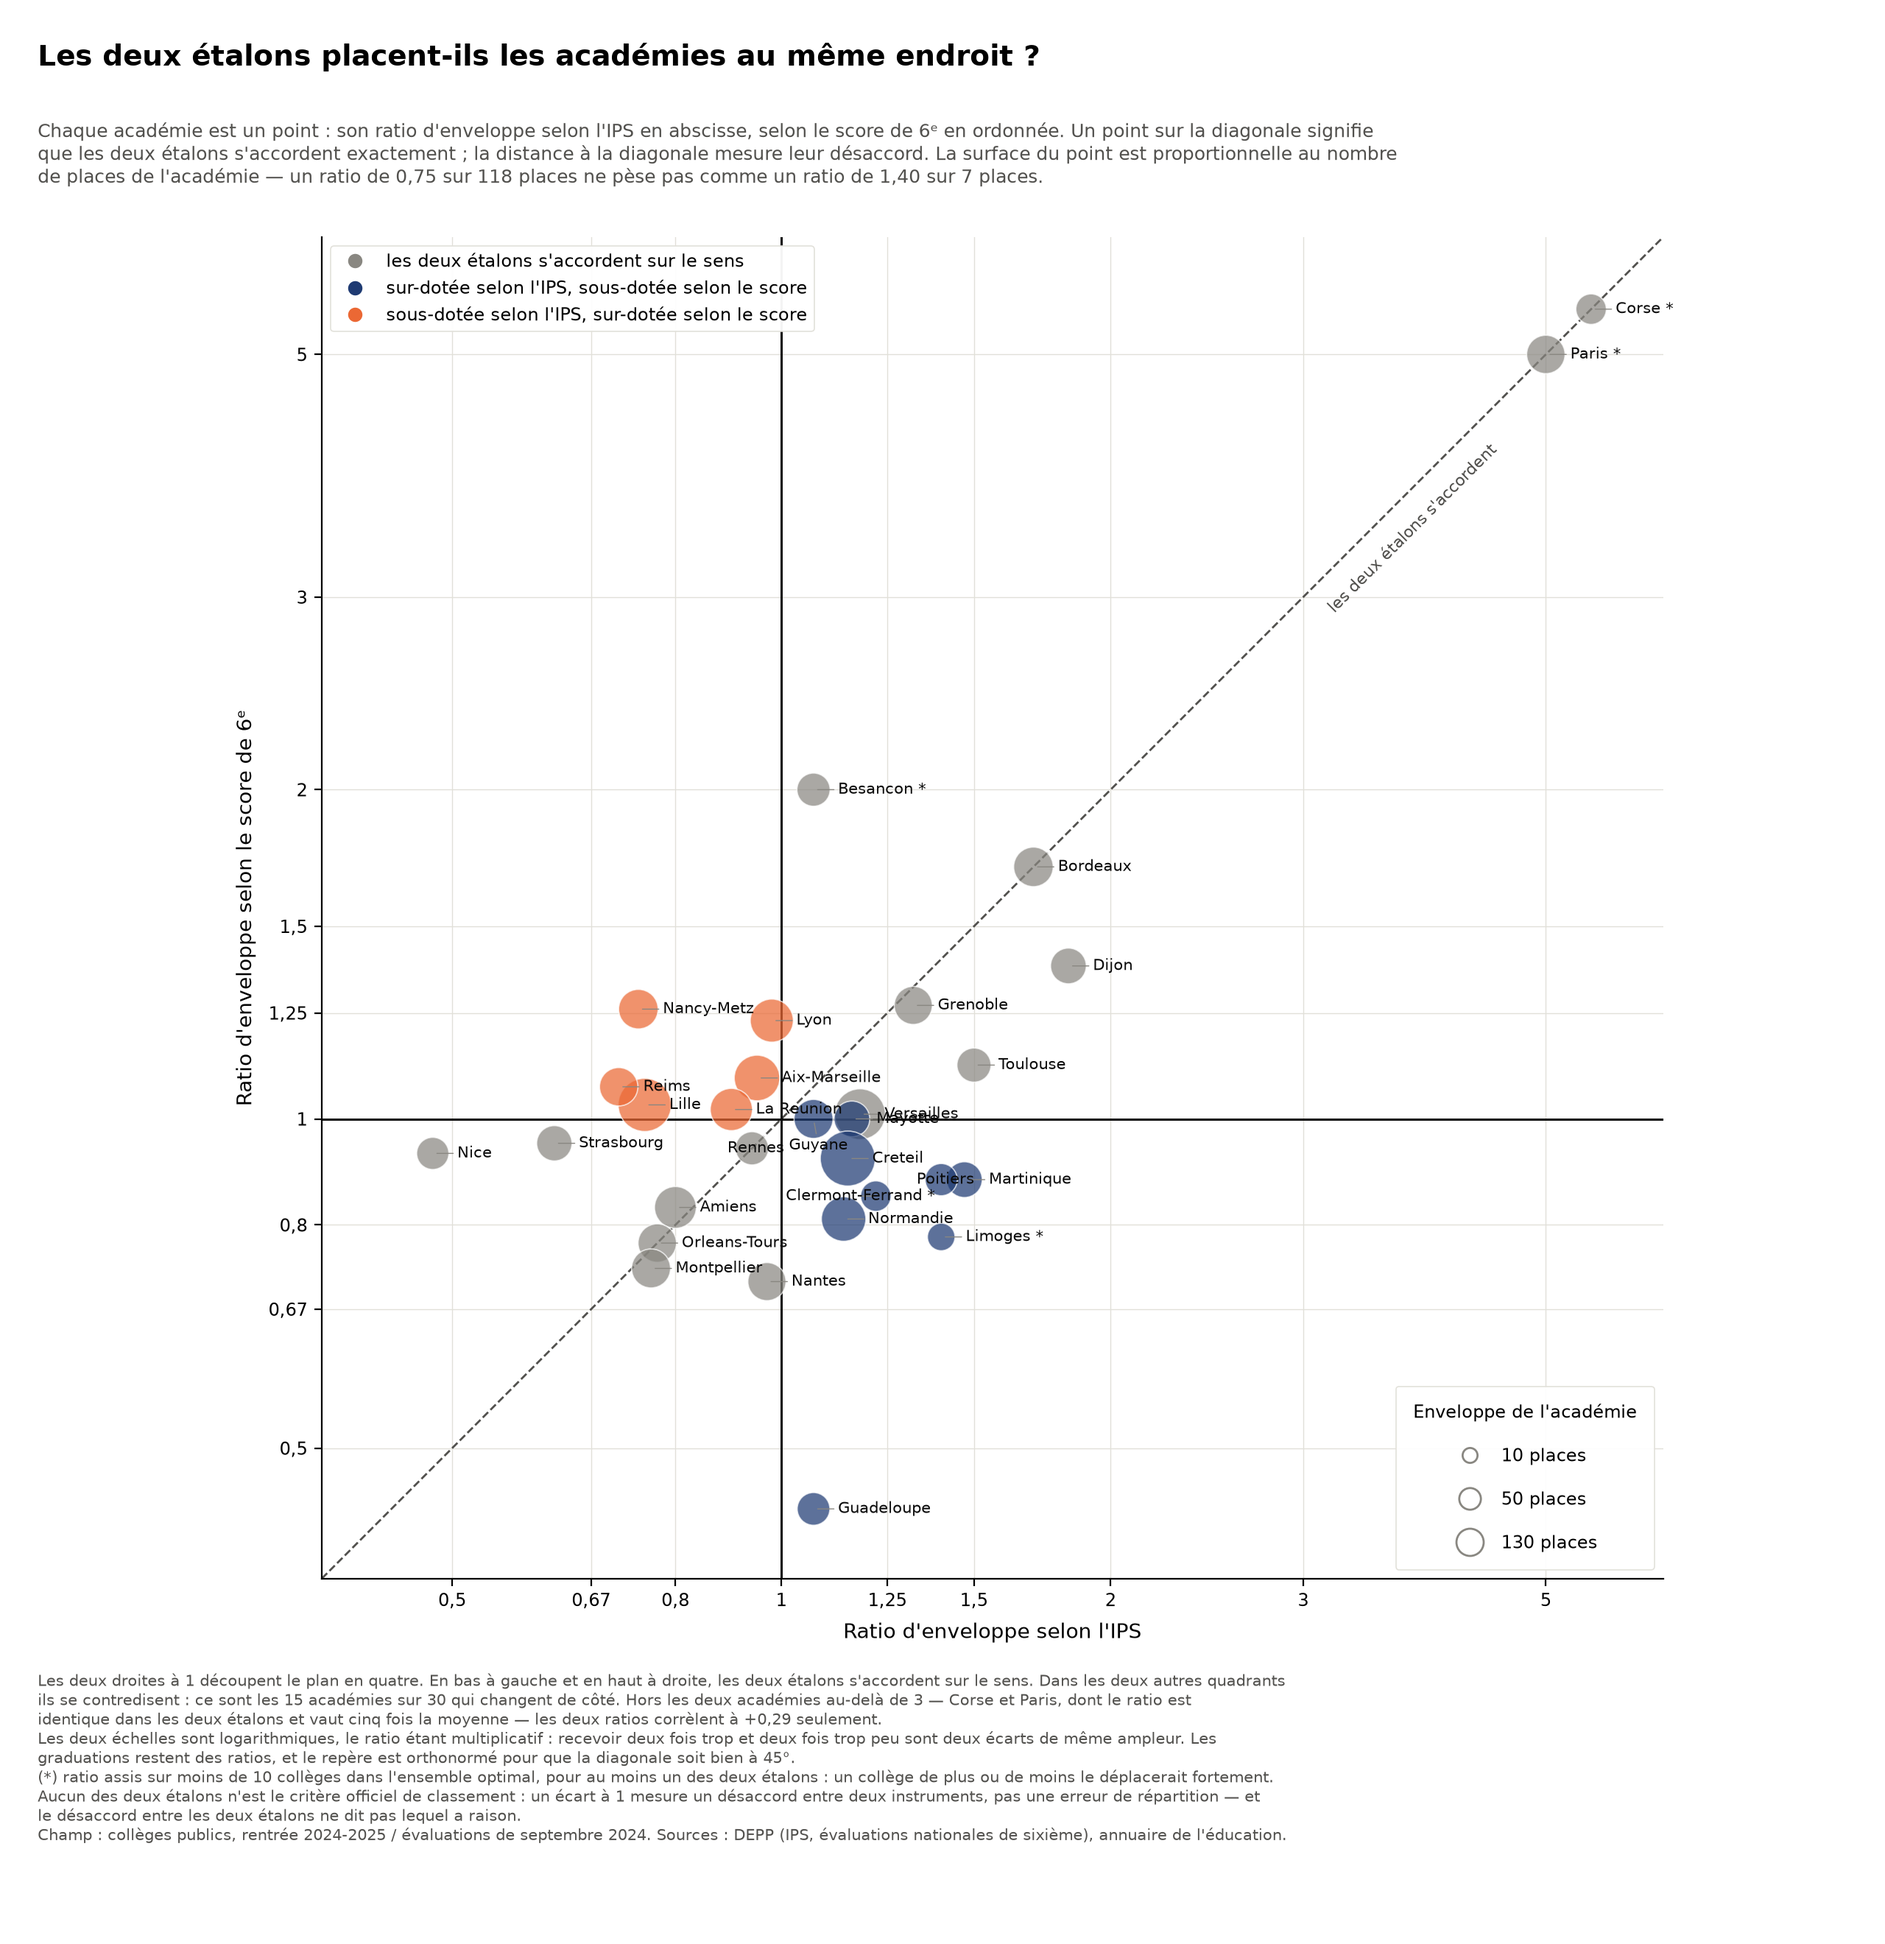
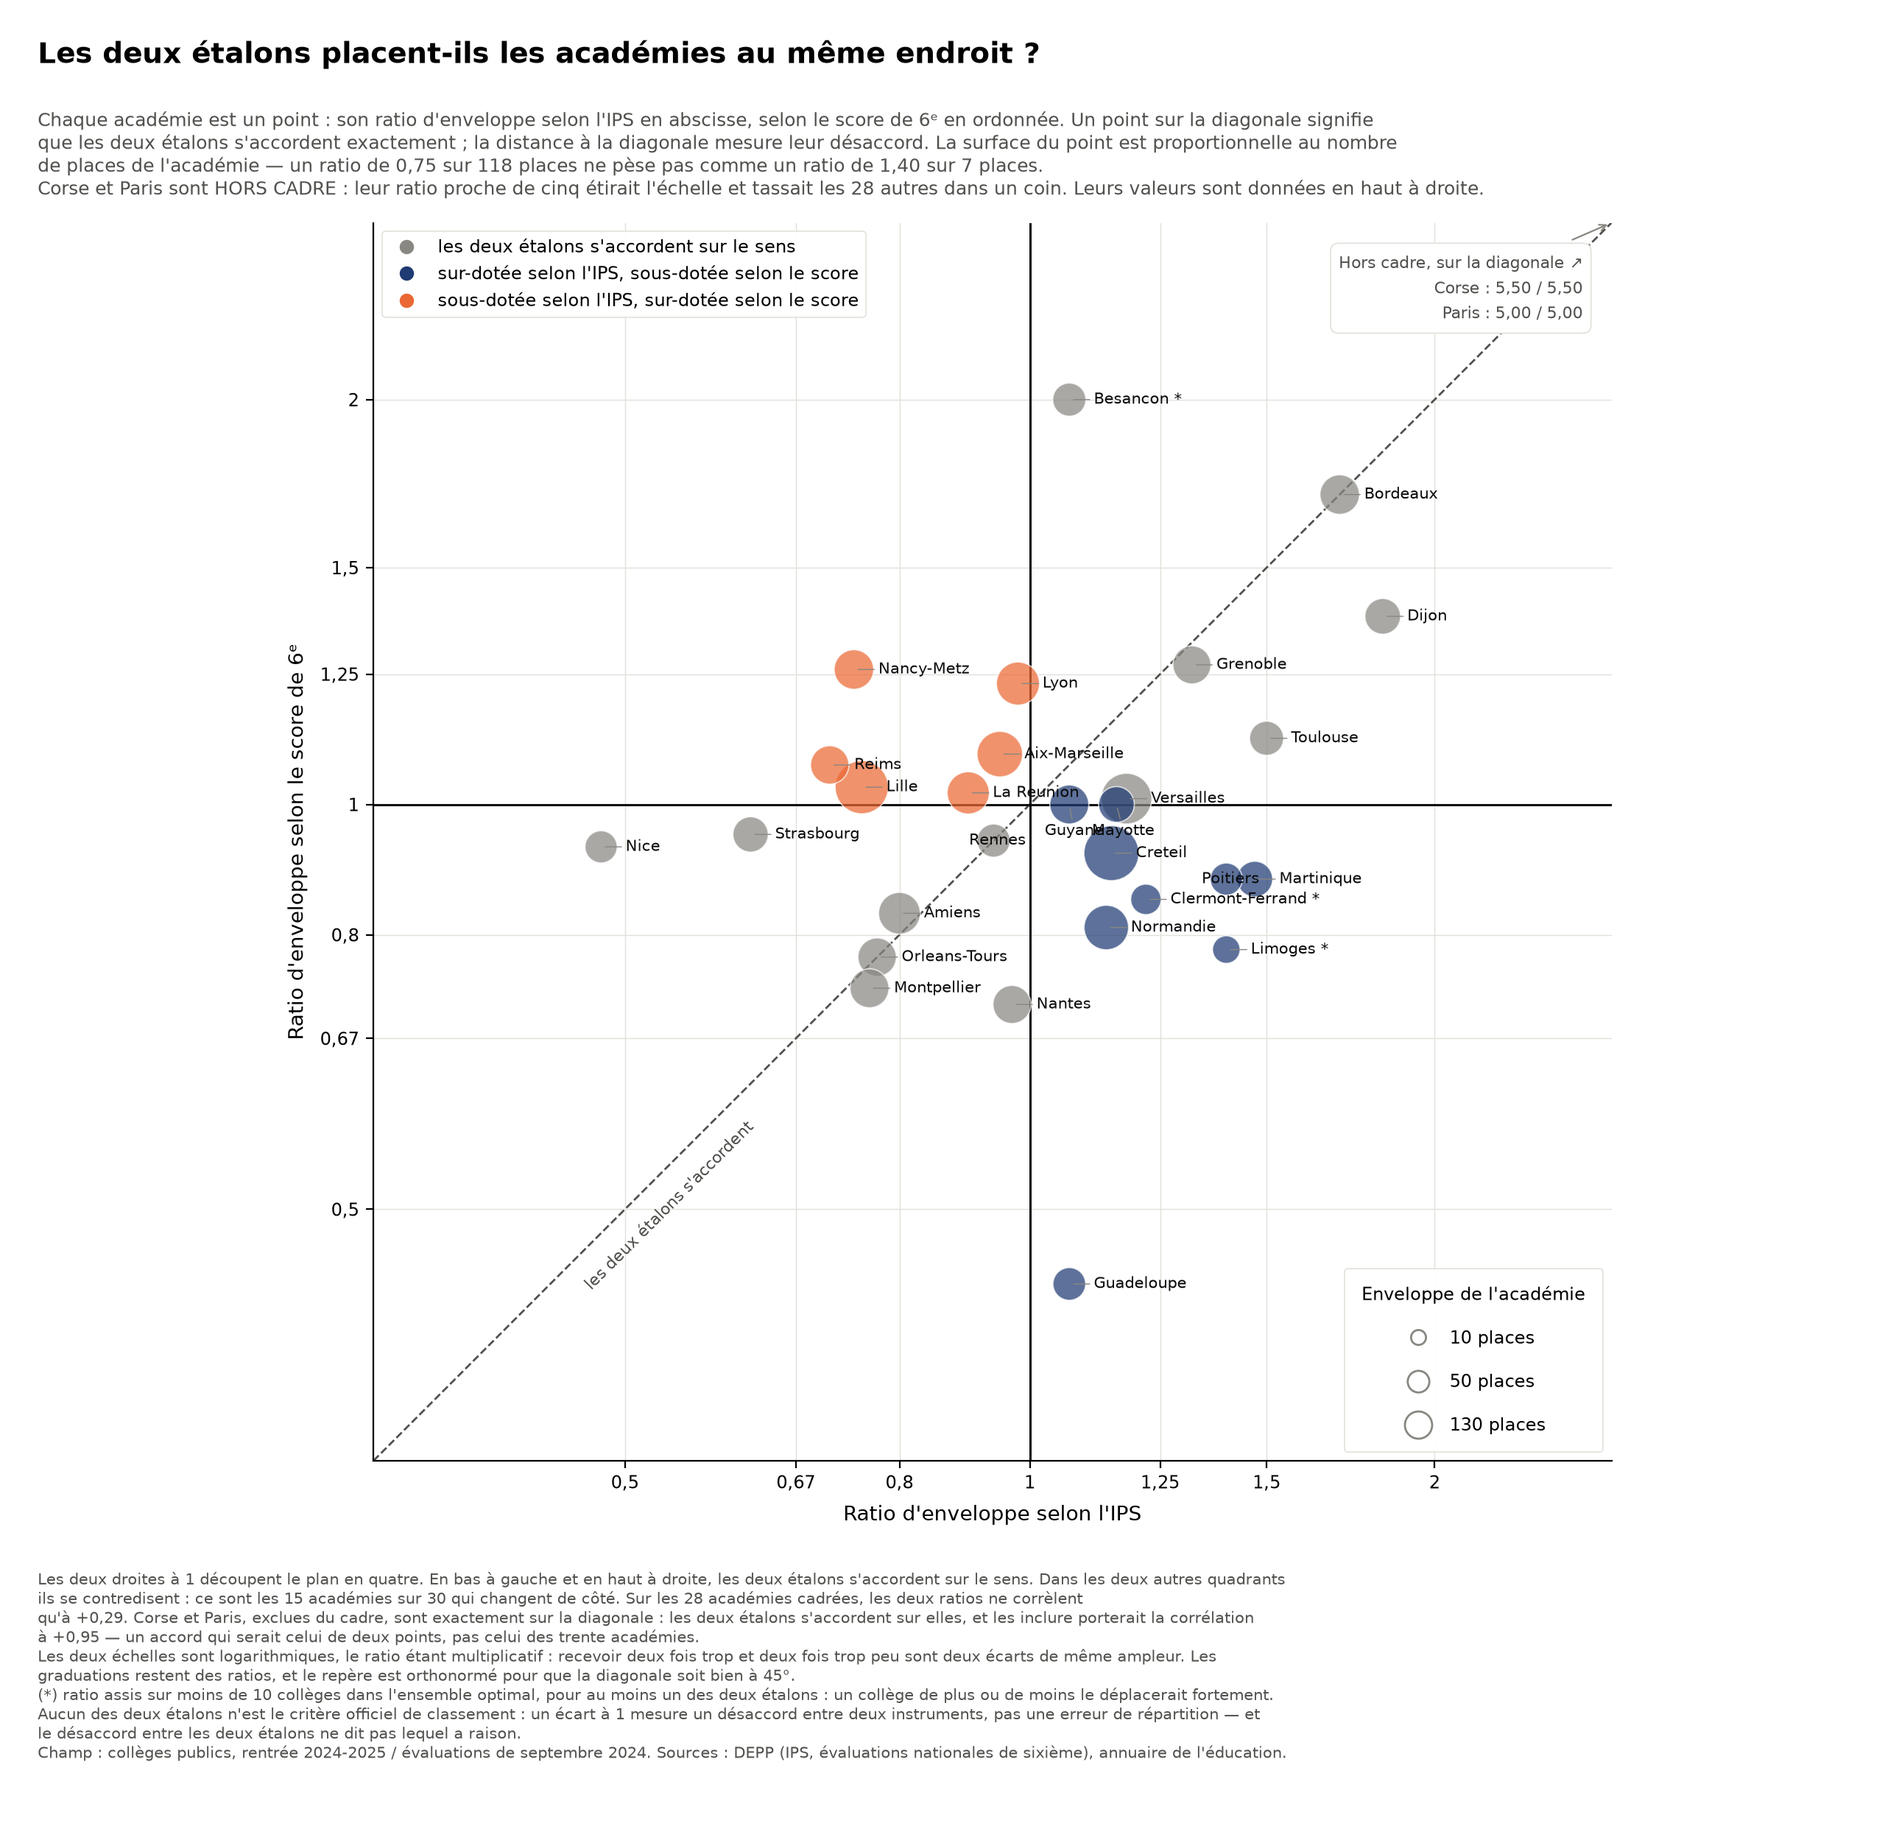
Nuage recadre sans la Corse ni Paris, signalees hors cadre
Leur ratio proche de cinq etirait l'echelle jusqu'a six et tassait les
vingt-huit autres academies dans le quart inferieur gauche, ou plus rien ne se
distinguait. Le cadre est desormais deduit des seules academies non extremes,
avec une marge calculee en LOGARITHME — une marge additive en ratio serait
asymetrique, large en haut et etroite en bas.

Les deux exclues ne sont pas passees sous silence : une note encadree dans le
coin superieur droit les nomme avec leurs valeurs, et une fleche vers le coin
dit dans quelle direction les chercher. Le chapo le repete. Omettre des points
en silence serait malhonnete — le lecteur doit savoir que le nuage n'est pas
complet.

Le critere porte sur la DONNEE et non sur une liste de noms : `SEUIL_HORS_CADRE`
vaut 2,5, ce qui attrape aujourd'hui exactement la Corse et Paris. Si l'une
rentrait dans le rang une annee, le cadrage suivrait sans qu'on y touche.

Consequence sur la lecture, et elle compte : la correlation annoncee est
maintenant celle des 28 academies cadrees, +0,29. La note precise que la Corse
et Paris sont exactement sur la diagonale et que les inclure la porterait a
+0,95 — un accord qui serait celui de deux points, pas celui des trente
academies.

Le graphe en halteres, lui, les garde : son echelle unique les absorbe sans
ecraser le reste.

Deux deplacements de mise en page : l'etiquette de la diagonale passe dans son
quart inferieur, seule zone libre une fois la note du coin posee, et la figure
[…]

diff --git a/src/ratios_enveloppe.py b/src/ratios_enveloppe.py
@@ -70,6 +70,14 @@ GRADUATIONS = [0.5, 0.67, 0.8, 1.0, 1.25, 1.5, 2.0, 3.0, 5.0]
 # sur trop peu d'observations : l'academie est signalee d'un asterisque.
 SEUIL_FRAGILE = 10
 
+# Au-dela de ce ratio, une academie sort du cadre du NUAGE. Elle y etirerait
+# l'echelle jusqu'a six et tasserait les vingt-huit autres dans un coin. Deux
+# academies sont concernees a ce jour — la Corse et Paris, toutes deux autour
+# de cinq — et elles sont signalees dans la figure avec leurs valeurs, jamais
+# passees sous silence. Le graphe en halteres, lui, les garde : son echelle
+# unique les absorbe sans ecraser le reste.
+SEUIL_HORS_CADRE = 2.5
+
 
 def charger() -> pd.DataFrame:
     """Reunit les ratios des deux etalons en une ligne par academie."""
@@ -378,9 +386,30 @@ def figure_nuage(t: pd.DataFrame) -> None:
     haut a droite, les deux etalons s'accordent sur le SENS. Dans les deux
     autres quadrants ils se contredisent, et ce sont les quinze academies
     surlignees de la figure precedente.
+
+    LE CADRAGE
+
+    Deux academies ont un ratio proche de cinq dans les deux etalons — la Corse
+    et Paris, dont l'ensemble optimal ne compte que deux et six colleges. Les
+    inclure dans le cadre etirait l'echelle jusqu'a six et tassait les
+    vingt-huit autres dans le quart inferieur gauche, ou plus rien ne se
+    distinguait.
+
+    Elles sont donc HORS CADRE, et signalees comme telles dans le coin
+    superieur droit, avec leurs valeurs. Les omettre en silence serait
+    malhonnete : le lecteur doit savoir que le nuage n'est pas complet, et que
+    ces deux academies sont exactement sur la diagonale — les deux etalons
+    s'accordent sur elles.
     """
     a, b = list(ETALONS)
     ra, rb = f"ratio_enveloppe_{a}", f"ratio_enveloppe_{b}"
+
+    # Le cadre est deduit des academies NON extremes, puis les extremes sont
+    # renvoyees dans la note du coin. Le critere porte sur la donnee et non sur
+    # une liste de noms : si la Corse rentrait dans le rang une annee, le
+    # cadrage suivrait sans qu'on y touche.
+    extreme = (t[[ra, rb]].max(axis=1) > SEUIL_HORS_CADRE).to_numpy()
+    cadrees, hors = t[~extreme], t[extreme]
 
     x, y = np.log2(t[ra].to_numpy()), np.log2(t[rb].to_numpy())
     places = t[f"classes_{a}"].to_numpy()
@@ -396,39 +425,73 @@ def figure_nuage(t: pd.DataFrame) -> None:
         ~t["change_de_cote"], MUET,
         np.where(t[ra] > 1, BLEU, ORANGE))
 
-    fig, ax = plt.subplots(figsize=(12.8, 13.2))
-    fig.subplots_adjust(left=0.075, right=0.978, top=0.878, bottom=0.188)
+    fig, ax = plt.subplots(figsize=(12.8, 12.4))
+    fig.subplots_adjust(left=0.075, right=0.978, top=0.878, bottom=0.200)
 
-    borne = (np.log2(0.38), np.log2(6.4))
+    # Bornes calees sur les academies cadrees, avec une marge en LOGARITHME :
+    # une marge additive en ratio serait asymetrique, large en haut et etroite
+    # en bas.
+    valeurs = np.log2(cadrees[[ra, rb]].to_numpy().ravel())
+    marge = 0.20 * (valeurs.max() - valeurs.min())
+    borne = (valeurs.min() - marge, valeurs.max() + marge)
+
     ax.plot(borne, borne, color=ENCRE_2, linewidth=1.0, linestyle="--",
             zorder=1)
-    ax.annotate("les deux étalons s'accordent", xy=(np.log2(3.1), np.log2(3.1)),
-                xytext=(6, -14), textcoords="offset points", fontsize=8,
+    # L'etiquette de la diagonale se place dans son quart INFERIEUR : le
+    # superieur est occupe par la note des academies hors cadre, et le centre
+    # par l'amas des academies proches de 1.
+    bas_diagonale = borne[0] + 0.16 * (borne[1] - borne[0])
+    ax.annotate("les deux étalons s'accordent",
+                xy=(bas_diagonale, bas_diagonale),
+                xytext=(8, -12), textcoords="offset points", fontsize=8,
                 color=ENCRE_2, rotation=45, rotation_mode="anchor",
                 ha="left", va="center")
 
     ax.axvline(0.0, color=ENCRE, linewidth=1.1, zorder=2)
     ax.axhline(0.0, color=ENCRE, linewidth=1.1, zorder=2)
 
-    ax.scatter(x, y, s=tailles, c=couleurs, alpha=0.72, linewidths=0.6,
-               edgecolors="white", zorder=3)
+    dedans = ~extreme
+    ax.scatter(x[dedans], y[dedans], s=tailles[dedans], c=couleurs[dedans],
+               alpha=0.72, linewidths=0.6, edgecolors="white", zorder=3)
 
     annotations = []
-    for xi, yi, nom, frag in zip(x, y, t["academie"], t["fragile"]):
+    for xi, yi, nom, frag in zip(x[dedans], y[dedans], cadrees["academie"],
+                                 cadrees["fragile"]):
         annotations.append(ax.annotate(
             f"{nom.title()}{' *' if frag else ''}", xy=(xi, yi),
             xytext=(11, 0), textcoords="offset points", fontsize=7.5,
             color=ENCRE, va="center", ha="left",
             arrowprops=dict(arrowstyle="-", color=MUET, linewidth=0.5,
                             shrinkA=0, shrinkB=2)))
-    restantes = placer_etiquettes(fig, ax, annotations, places)
+
+    # ---- les academies hors cadre, signalees et non tues -------------------
+    if len(hors):
+        lignes = [
+            f"{nom.title()} : {va:.2f} / {vb:.2f}".replace(".", ",")
+            for nom, va, vb in zip(hors["academie"], hors[ra], hors[rb])]
+        # Une fleche vers le coin dit dans quelle direction elles se trouvent,
+        # ce qu'un simple encadre ne dirait pas.
+        ax.annotate("Hors cadre, sur la diagonale ↗\n" + "\n".join(lignes),
+                    xy=(borne[1], borne[1]),
+                    xytext=(-14, -14), textcoords="offset points",
+                    fontsize=8, color=ENCRE_2, ha="right", va="top",
+                    linespacing=1.5,
+                    bbox=dict(boxstyle="round,pad=0.5", facecolor="white",
+                              edgecolor=GRILLE, linewidth=0.6),
+                    arrowprops=dict(arrowstyle="->", color=MUET,
+                                    linewidth=0.8, shrinkA=4, shrinkB=2))
+
+    restantes = placer_etiquettes(fig, ax, annotations, places[dedans])
     if restantes:
         print(f"  {restantes} etiquettes sans position libre : elles se "
               f"chevauchent peut-etre")
 
+    # Seules les graduations tombant dans le cadre sont tracees : les autres
+    # produiraient des libelles hors de l'axe.
+    visibles = [g for g in GRADUATIONS if borne[0] <= np.log2(g) <= borne[1]]
     for graduation in (ax.set_xticks, ax.set_yticks):
-        graduation([np.log2(g) for g in GRADUATIONS])
-    etiquettes = [f"{g:g}".replace(".", ",") for g in GRADUATIONS]
+        graduation([np.log2(g) for g in visibles])
+    etiquettes = [f"{g:g}".replace(".", ",") for g in visibles]
     ax.set_xticklabels(etiquettes, fontsize=8.5)
     ax.set_yticklabels(etiquettes, fontsize=8.5)
     ax.set_xlim(*borne)
@@ -478,12 +541,12 @@ def figure_nuage(t: pd.DataFrame) -> None:
     seconde.get_frame().set_linewidth(0.6)
 
     n_change = int(t["change_de_cote"].sum())
-    sans = t[t[ra] < 3]
-    corr = f"{sans[ra].corr(sans[rb]):+.2f}".replace(".", ",")
+    corr = f"{cadrees[ra].corr(cadrees[rb]):+.2f}".replace(".", ",")
+    noms_hors = " et ".join(nom.title() for nom in hors["academie"])
 
     fig.suptitle("Les deux étalons placent-ils les académies au même endroit ?",
                  fontsize=14, fontweight="bold", x=0.02, ha="left", y=0.978)
-    fig.text(0.02, 0.938,
+    fig.text(0.02, 0.940,
              "Chaque académie est un point : son ratio d'enveloppe selon l'IPS "
              "en abscisse, selon le score de 6ᵉ en ordonnée. Un point sur la "
              "diagonale signifie\n"
@@ -491,7 +554,10 @@ def figure_nuage(t: pd.DataFrame) -> None:
              "diagonale mesure leur désaccord. La surface du point est "
              "proportionnelle au nombre\n"
              "de places de l'académie — un ratio de 0,75 sur 118 places ne pèse "
-             "pas comme un ratio de 1,40 sur 7 places.",
+             "pas comme un ratio de 1,40 sur 7 places.\n"
+             f"{noms_hors} sont HORS CADRE : leur ratio proche de cinq étirait "
+             f"l'échelle et tassait les {len(cadrees)} autres dans un coin. Leurs "
+             f"valeurs sont données en haut à droite.",
              fontsize=9, va="top", color=ENCRE_2)
 
     fig.text(0.02, 0.140,
@@ -499,10 +565,13 @@ def figure_nuage(t: pd.DataFrame) -> None:
              f"et en haut à droite, les deux étalons s'accordent sur le sens. "
              f"Dans les deux autres quadrants\n"
              f"ils se contredisent : ce sont les {n_change} académies sur "
-             f"{len(t)} qui changent de côté. Hors les deux académies au-delà de "
-             f"3 — Corse et Paris, dont le ratio est\n"
-             f"identique dans les deux étalons et vaut cinq fois la moyenne — les "
-             f"deux ratios corrèlent à {corr} seulement.\n"
+             f"{len(t)} qui changent de côté. Sur les {len(cadrees)} académies "
+             f"cadrées, les deux ratios ne corrèlent\n"
+             f"qu'à {corr}. {noms_hors}, exclues du cadre, sont exactement sur la "
+             f"diagonale : les deux étalons s'accordent sur elles, et les inclure "
+             f"porterait la corrélation\n"
+             f"à +0,95 — un accord qui serait celui de deux points, pas celui des "
+             f"trente académies.\n"
              "Les deux échelles sont logarithmiques, le ratio étant "
              "multiplicatif : recevoir deux fois trop et deux fois trop peu sont "
              "deux écarts de même ampleur. Les\n"
